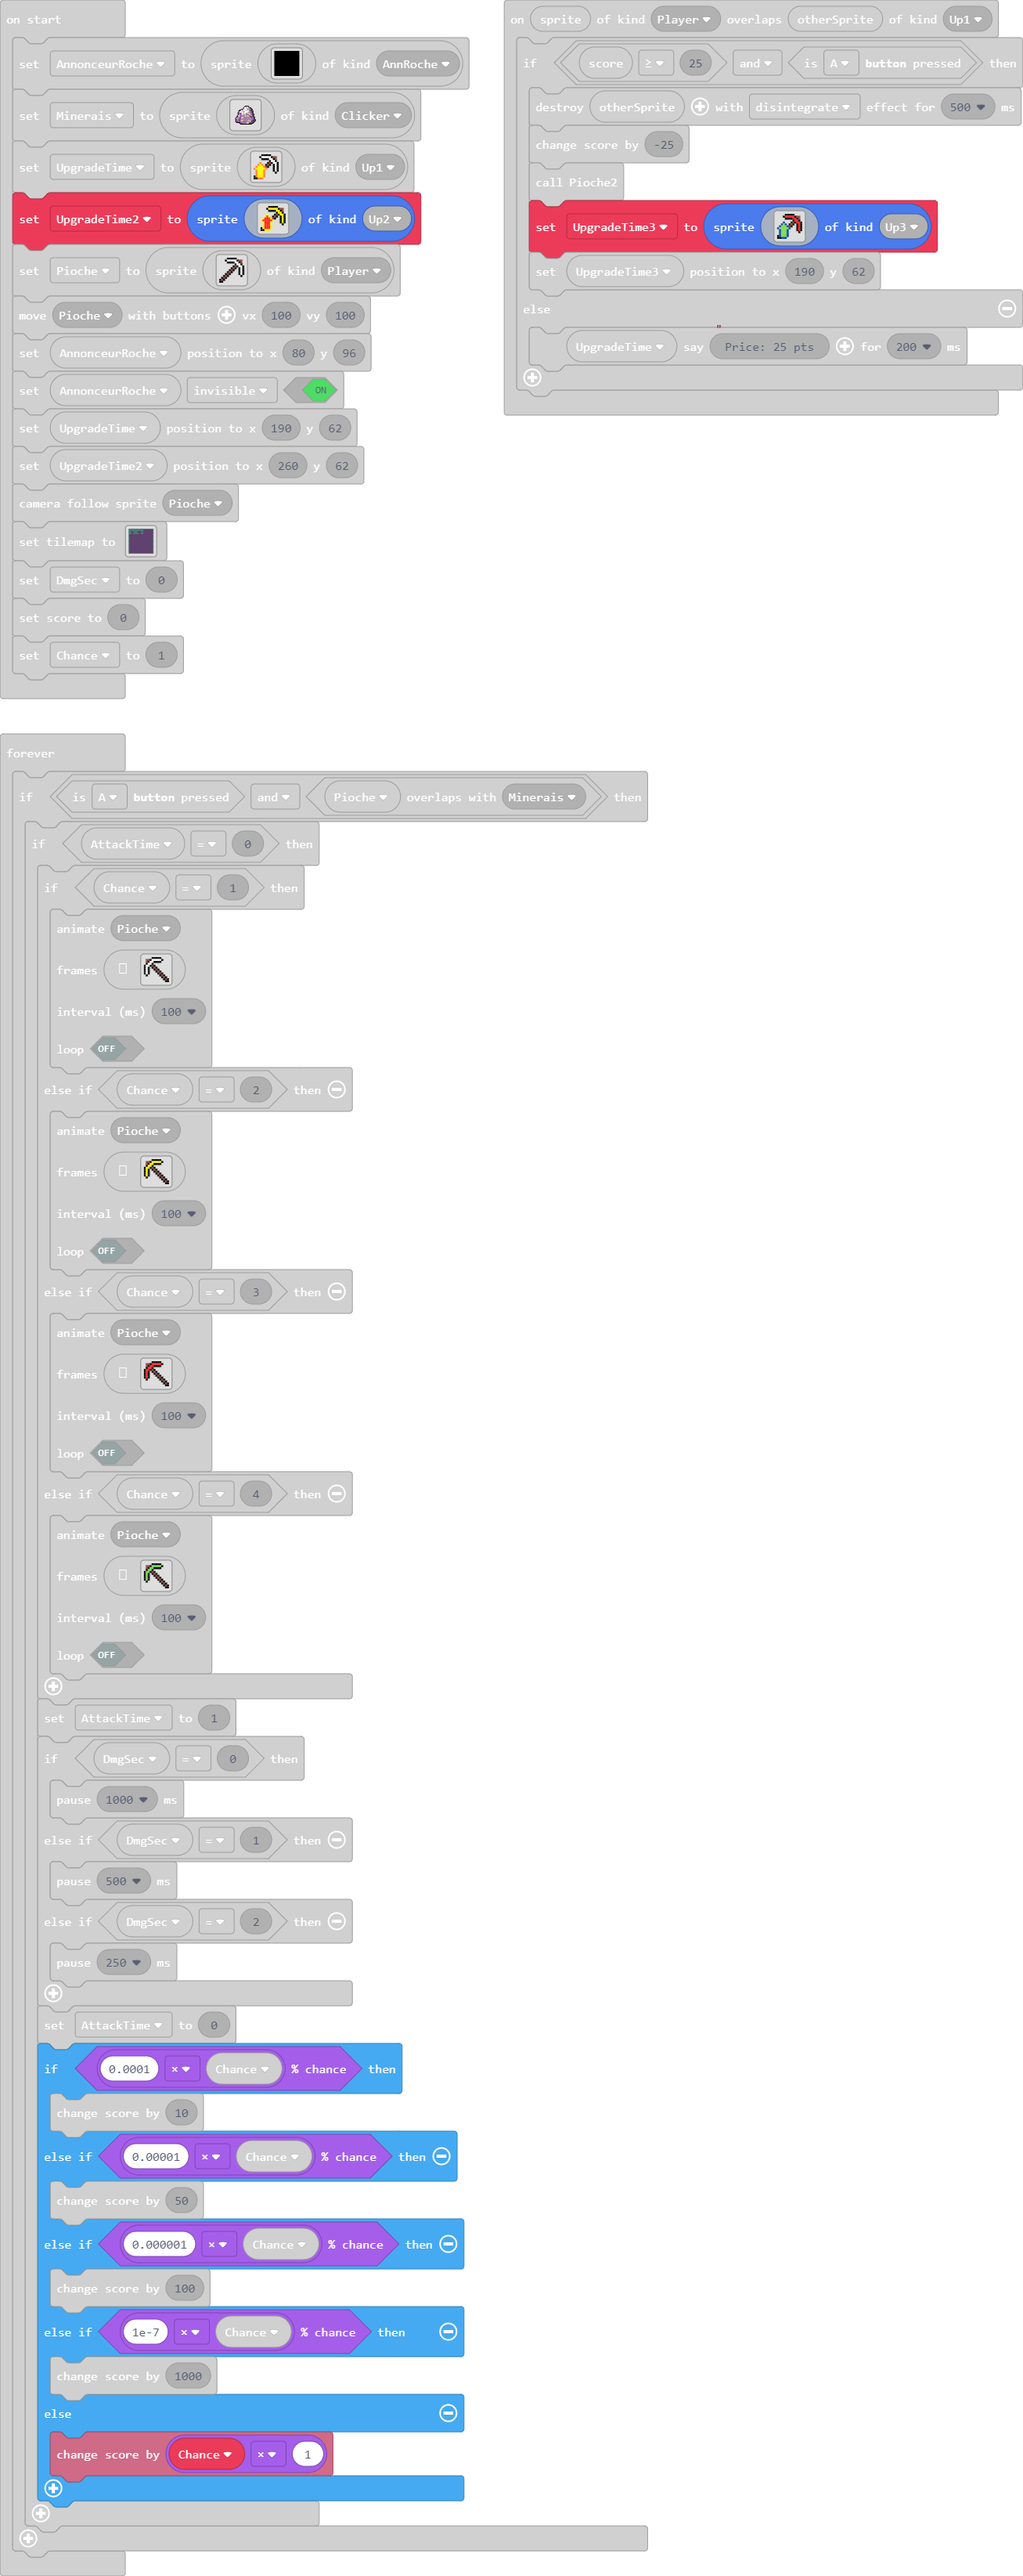
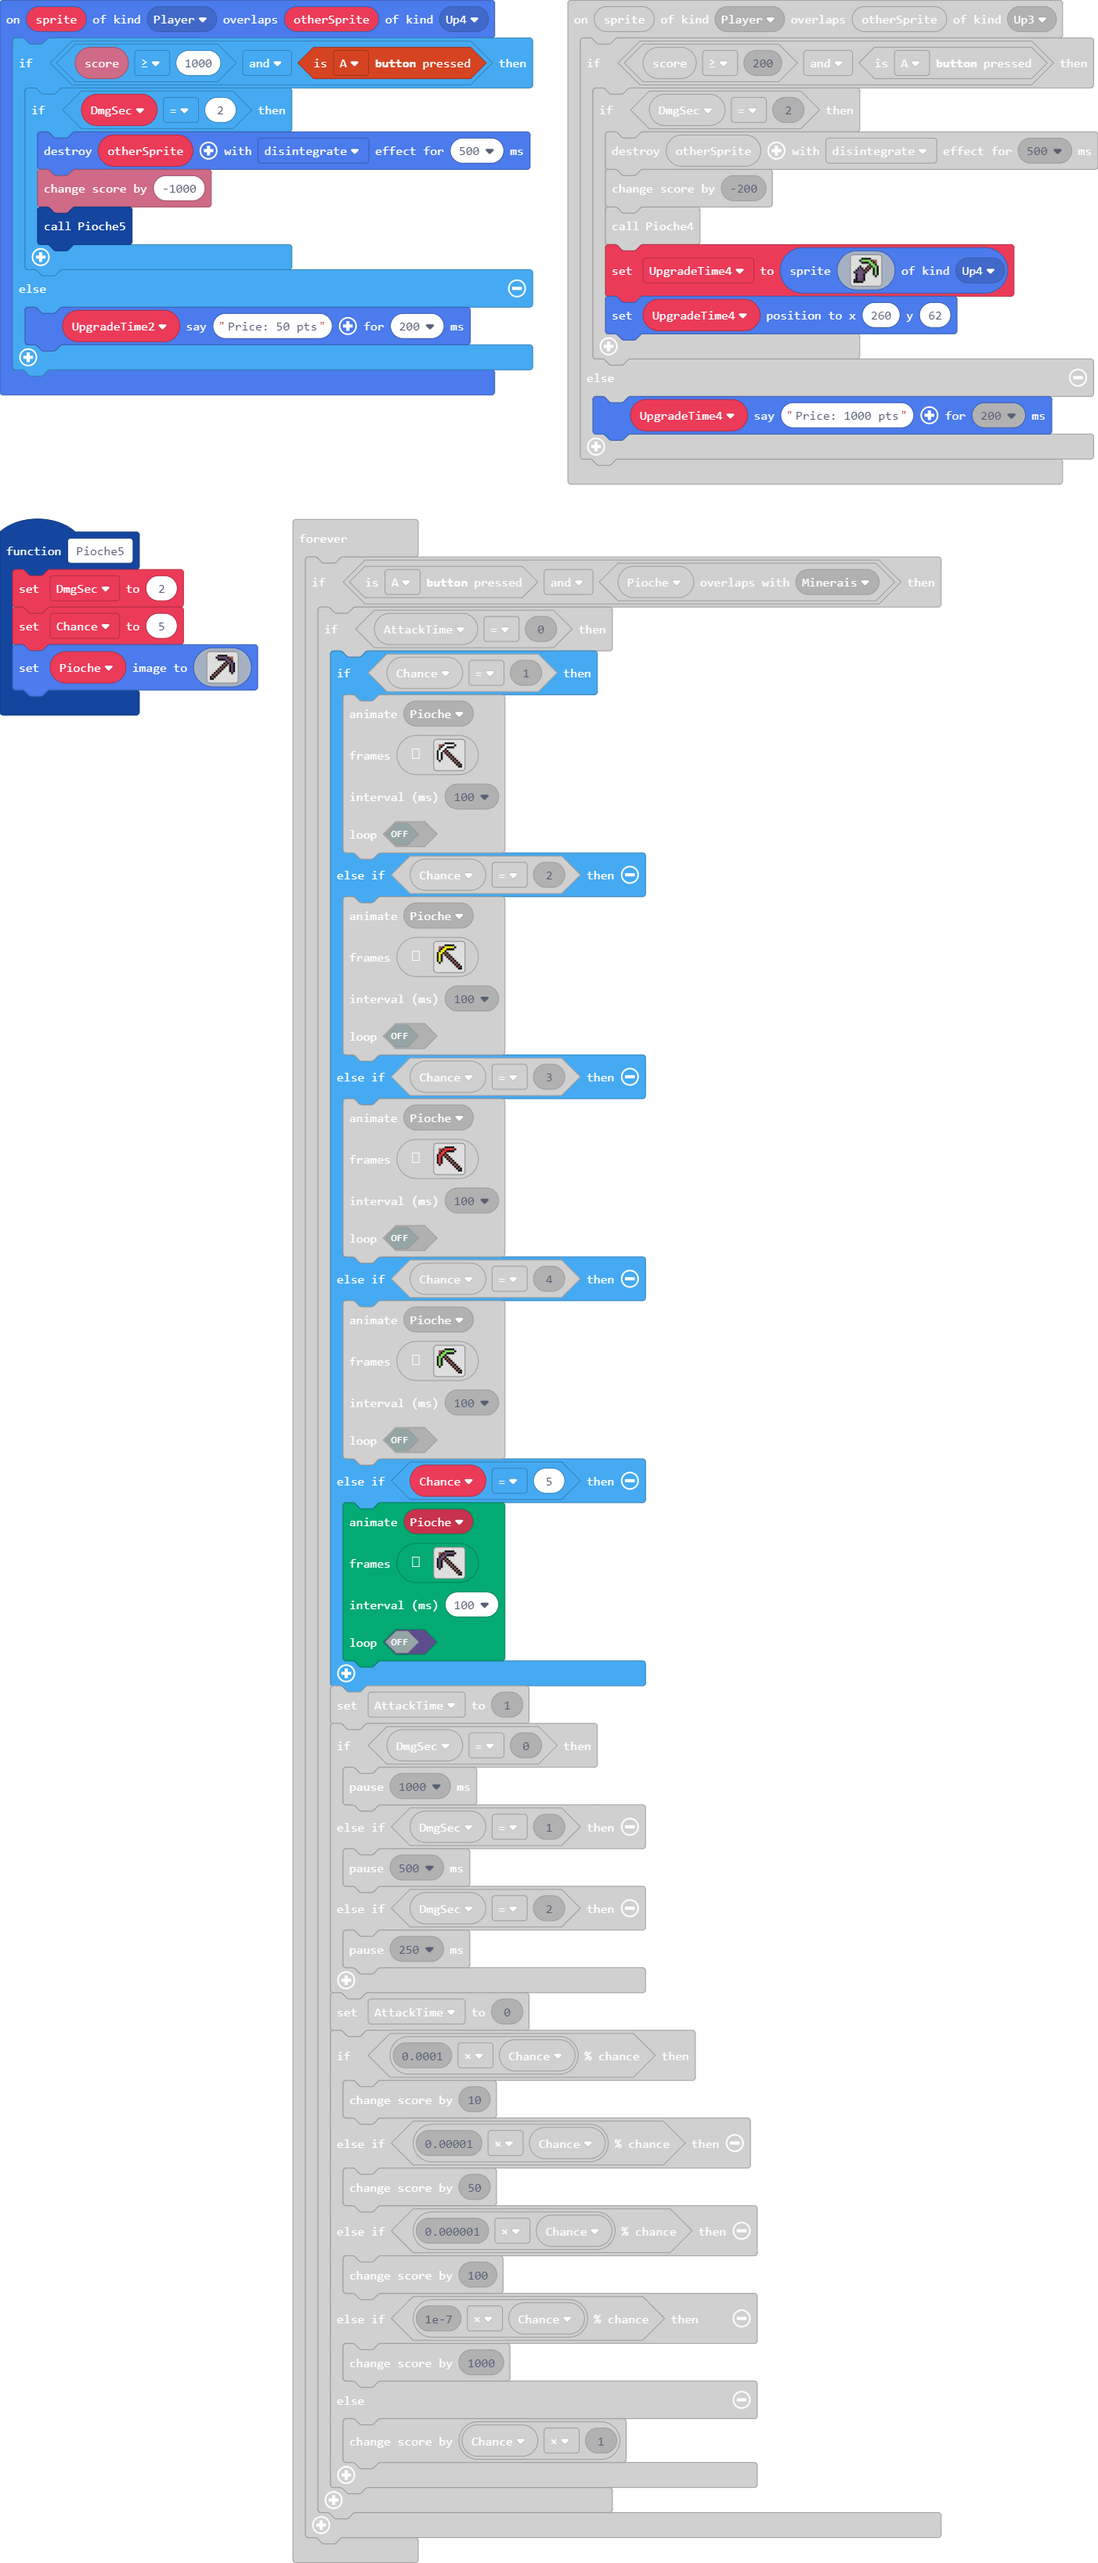
Update main.blocks, main.ts

diff --git a/main.ts b/main.ts
@@ -4,6 +4,7 @@ namespace SpriteKind {
     export const Up2 = SpriteKind.create()
     export const AnnRoche = SpriteKind.create()
     export const Up3 = SpriteKind.create()
+    export const Up4 = SpriteKind.create()
 }
 namespace myTiles {
     //% blockIdentity=images._tile
@@ -45,6 +46,36 @@ f e f . . . . . . . . . .
 f f . . . . . . . . . . . 
 `)
 }
+function Pioche5 () {
+    DmgSec = 2
+    Chance = 5
+    Pioche.setImage(img`
+. . . . f f f f f . . . . 
+. . . f c c c c c f e e . 
+. . . . f f f f c c f e . 
+. . . . . . . . f c c f . 
+. . . . . . . f e f c c f 
+. . . . . . f e f . f c f 
+. . . . . f e f . . f c f 
+. . . . f e f . . . f c f 
+. . . f e f . . . . f c f 
+. . f e f . . . . . . f . 
+. f e f . . . . . . . . . 
+f e f . . . . . . . . . . 
+f f . . . . . . . . . . . 
+`)
+}
+sprites.onOverlap(SpriteKind.Player, SpriteKind.Up4, function (sprite, otherSprite) {
+    if (info.score() >= 1000 && controller.A.isPressed()) {
+        if (DmgSec == 2) {
+            otherSprite.destroy(effects.disintegrate, 500)
+            info.changeScoreBy(-1000)
+            Pioche5()
+        }
+    } else {
+        UpgradeTime2.say("Price: 50 pts", 200)
+    }
+})
 function Pioche3 () {
     DmgSec = 2
     Chance = 3
@@ -70,9 +101,25 @@ sprites.onOverlap(SpriteKind.Player, SpriteKind.Up3, function (sprite, otherSpri
             otherSprite.destroy(effects.disintegrate, 500)
             info.changeScoreBy(-200)
             Pioche4()
+            UpgradeTime4 = sprites.create(img`
+. . . . f f f f f . . . . 
+. . . f 7 7 7 7 7 f e e . 
+. . . . f f f f 7 7 f e . 
+. . . . . . . . f 7 7 f . 
+. . . f . . . f e f 7 7 f 
+. . f c f . f e f . f 7 f 
+. f c c c f e f . . f 7 f 
+f c c c c c f . . . f 7 f 
+. f c c c f . . . . f 7 f 
+. f c c c f . . . . . f . 
+. f c c c f . . . . . . . 
+f f c c c f . . . . . . . 
+f f f f f . . . . . . . . 
+`, SpriteKind.Up4)
+            UpgradeTime4.setPosition(260, 62)
         }
     } else {
-        UpgradeTime3.say("Price: 200 pts", 200)
+        UpgradeTime4.say("Price: 1000 pts", 200)
     }
 })
 sprites.onOverlap(SpriteKind.Player, SpriteKind.Up2, function (sprite, otherSprite) {
@@ -135,6 +182,7 @@ f f . . . . . . . . . . .
 }
 let AttackTime = 0
 let UpgradeTime3: Sprite = null
+let UpgradeTime4: Sprite = null
 let Chance = 0
 let DmgSec = 0
 let Pioche: Sprite = null
@@ -437,6 +485,41 @@ f 7 f . . . . f e f . . .
 . . . . . f e f . . f 7 f 
 . . . . f e f . . . f 7 f 
 . . . f e f . . . . f 7 f 
+. . f e f . . . . . . f . 
+. f e f . . . . . . . . . 
+f e f . . . . . . . . . . 
+f f . . . . . . . . . . . 
+`],
+                100,
+                false
+                )
+            } else if (Chance == 5) {
+                animation.runImageAnimation(
+                Pioche,
+                [img`
+. . . . f f f f f . . . . 
+. e e f c c c c c f . . . 
+. e f c c f f f f . . . . 
+. f c c f . . . . . . . . 
+f c c f e f . . . . . . . 
+f c f . f e f . . . . . . 
+f c f . . f e f . . . . . 
+f c f . . . f e f . . . . 
+f c f . . . . f e f . . . 
+. f . . . . . . f e f . . 
+. . . . . . . . . f e f . 
+. . . . . . . . . . f e f 
+. . . . . . . . . . . f f 
+`,img`
+. . . . f f f f f . . . . 
+. . . f c c c c c f e e . 
+. . . . f f f f c c f e . 
+. . . . . . . . f c c f . 
+. . . . . . . f e f c c f 
+. . . . . . f e f . f c f 
+. . . . . f e f . . f c f 
+. . . . f e f . . . f c f 
+. . . f e f . . . . f c f 
 . . f e f . . . . . . f . 
 . f e f . . . . . . . . . 
 f e f . . . . . . . . . . 
